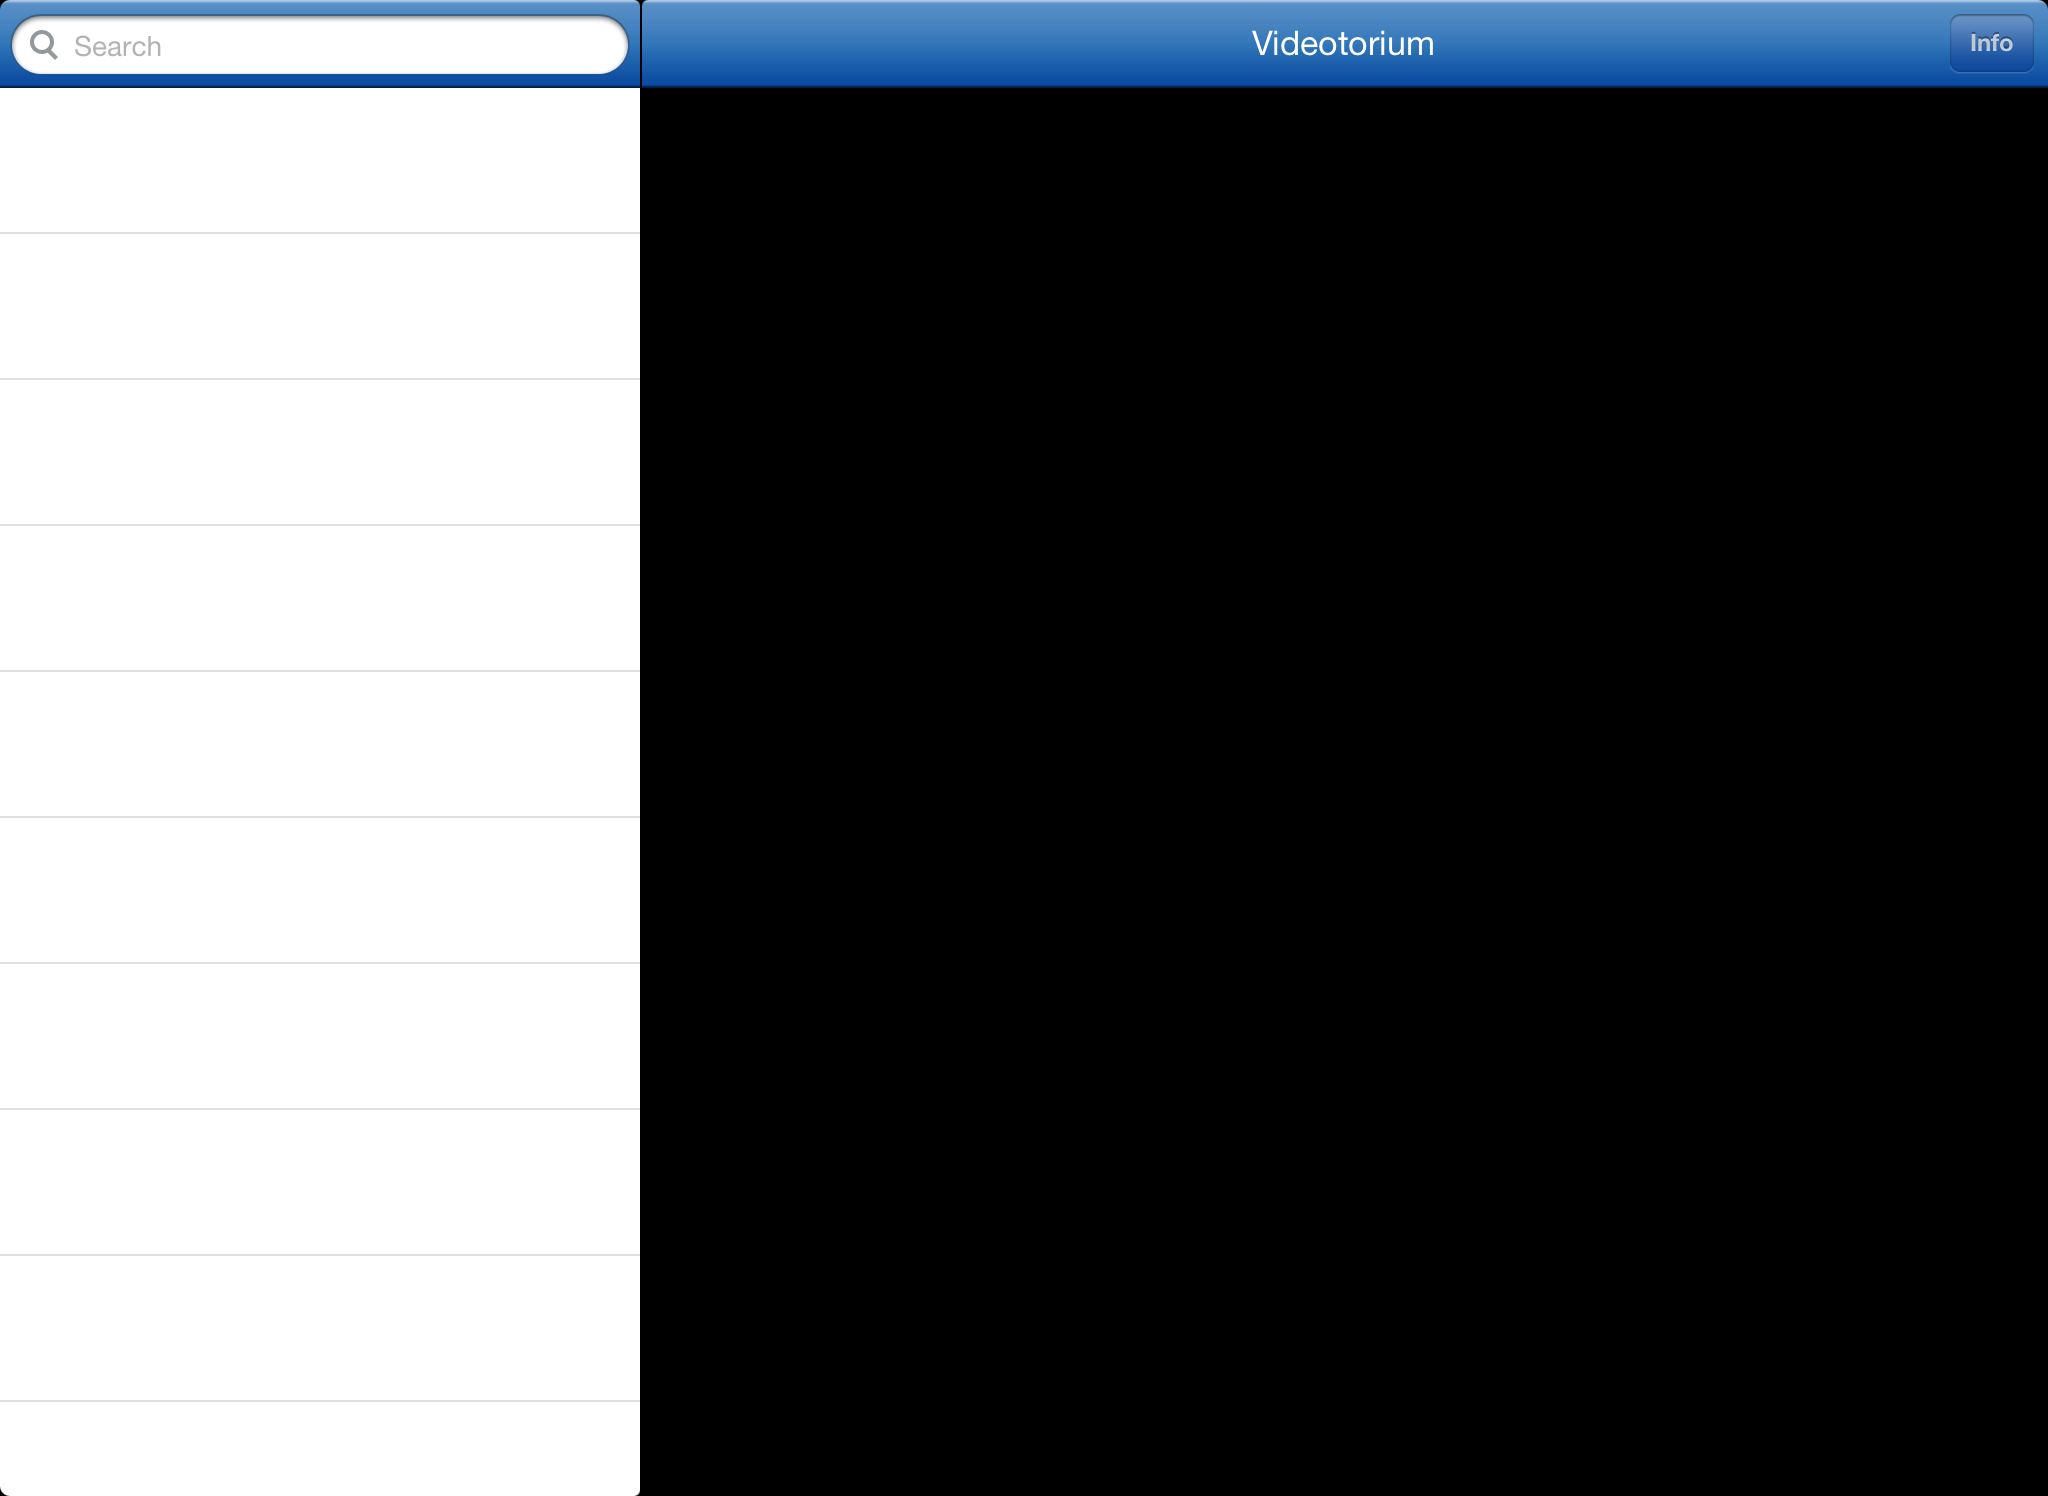
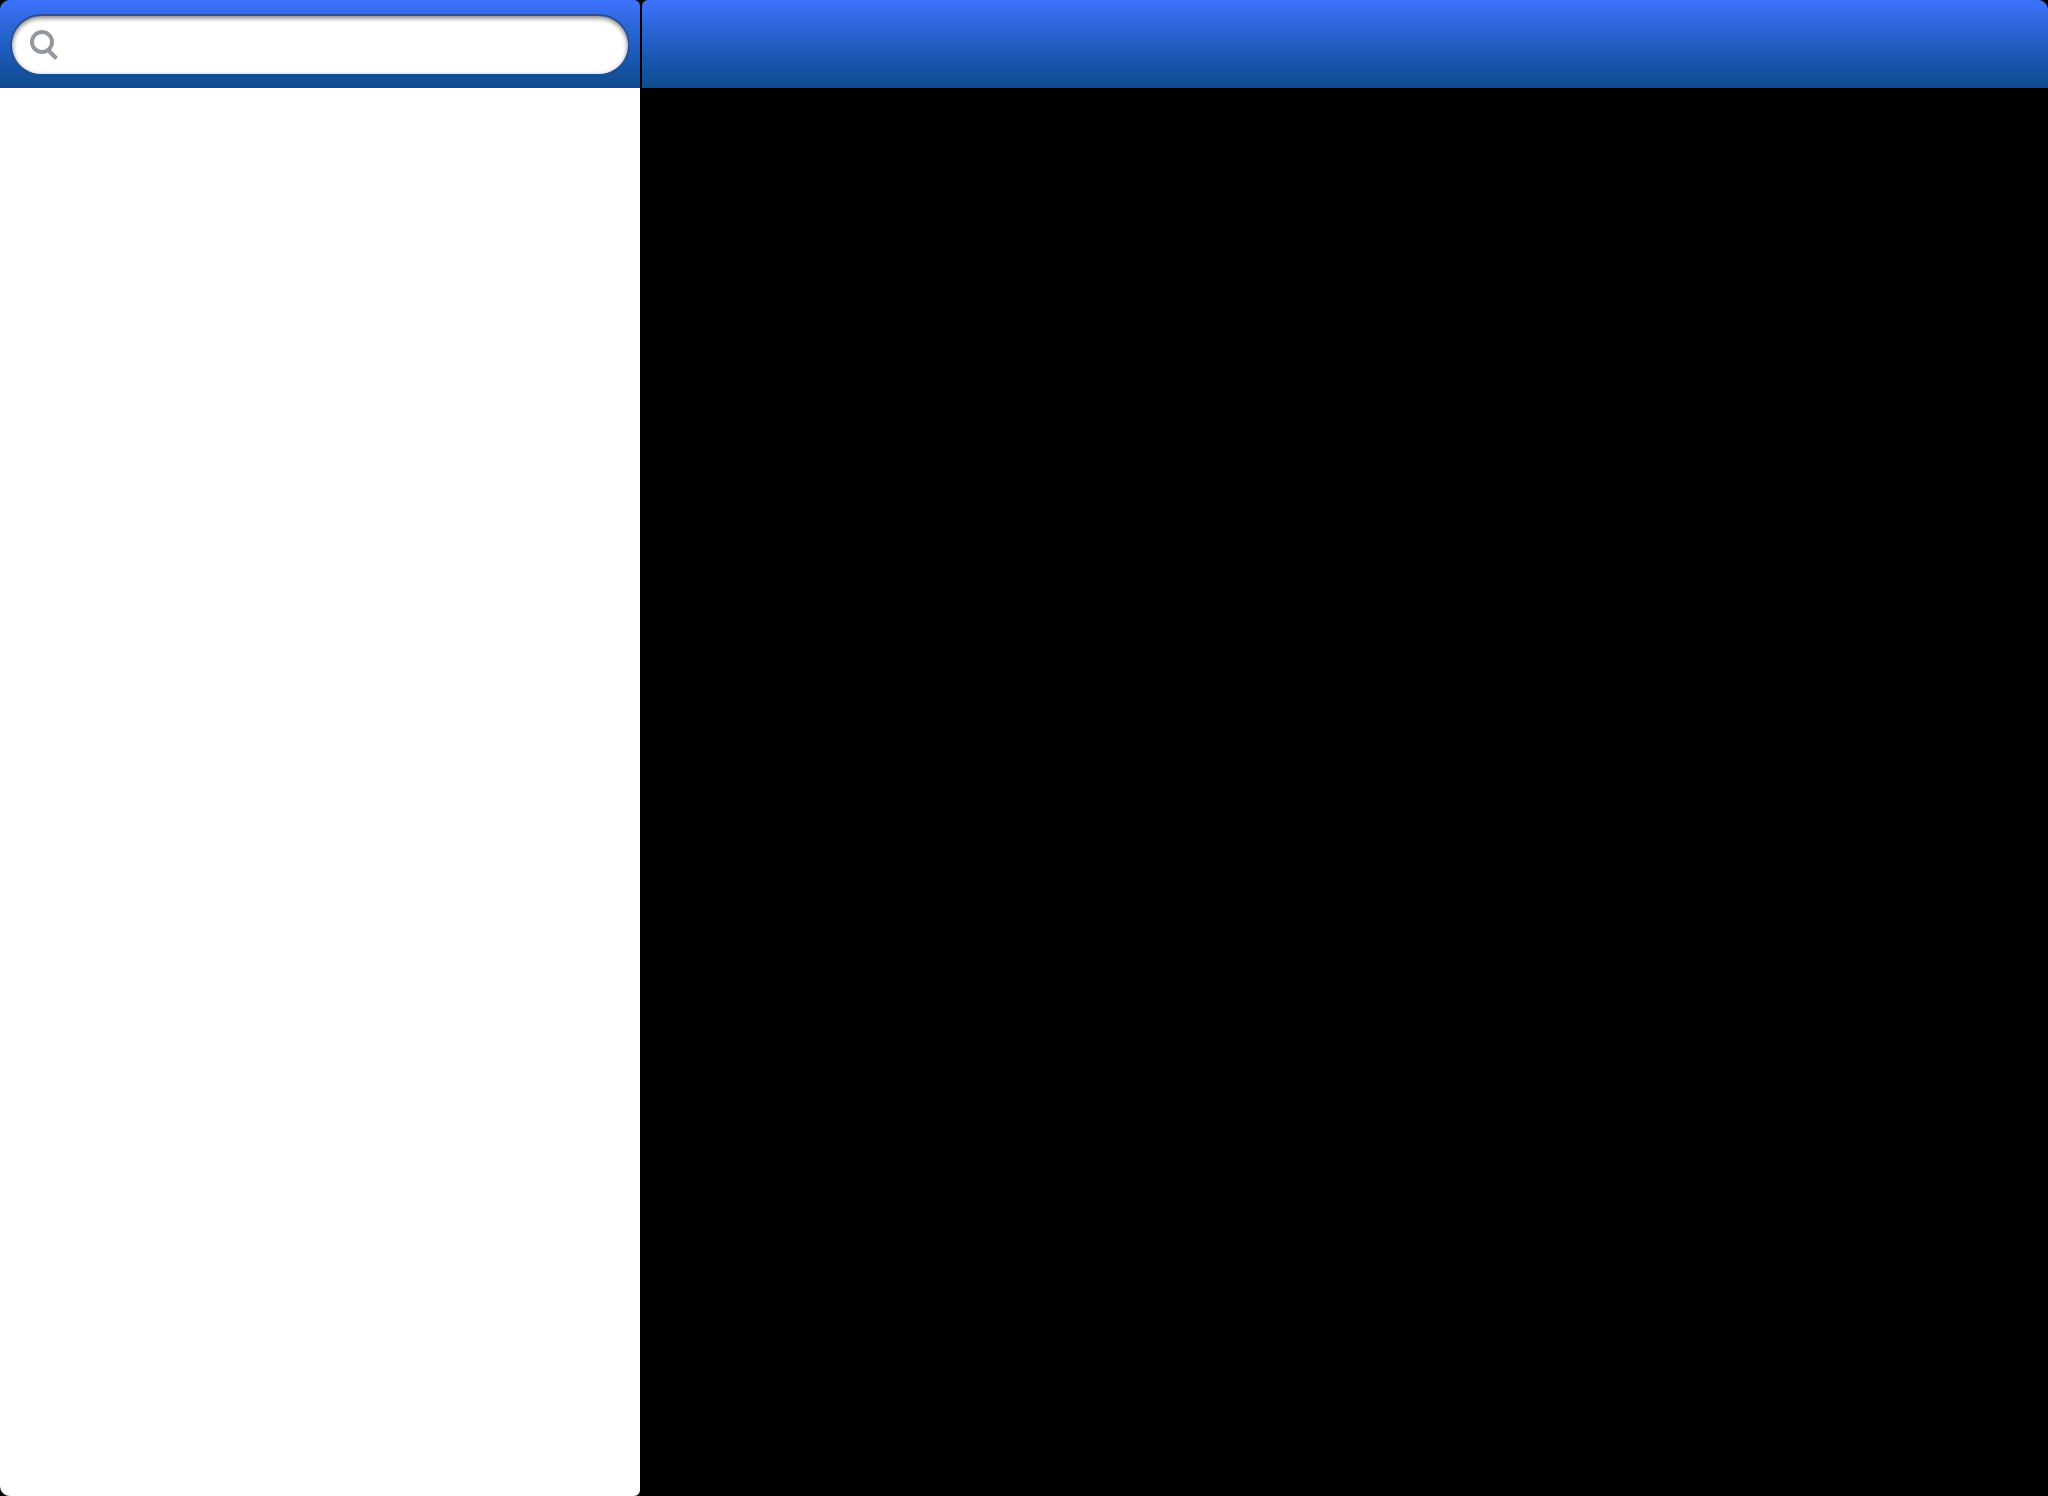
Better screenshotmode, and new launch images.

Changed region(s): [[0.0, 0.0, 1.0, 0.0615]]

diff --git a/videotorium/VideotoriumPlayerViewController.m b/videotorium/VideotoriumPlayerViewController.m
@@ -6,8 +6,6 @@
 //  Copyright (c) 2012 zsombornagy.com. All rights reserved.
 //
 
-//#define SCREENSHOTMODE
-
 #import "VideotoriumPlayerViewController.h"
 #import "VideotoriumClient.h"
 #import "VideotoriumRecordingInfoViewController.h"
@@ -95,13 +93,16 @@
         }
     }
 #endif
+#ifdef SCREENSHOTMODE
+    self.toolbar.items = [NSArray array];
+#endif
 }
 
 - (void)setRecordingID:(NSString *)recordingID
 {
     _recordingID = recordingID;
     
-    self.titleLabel.text = @"Videotorium";
+    self.titleLabel.text = @"";
     self.infoButton.enabled = NO;
     [self.splitViewPopoverController dismissPopoverAnimated:YES];
     if (self.moviePlayerController != nil) {

diff --git a/videotorium/VideotoriumSearchViewController.m b/videotorium/VideotoriumSearchViewController.m
@@ -96,6 +96,9 @@
         }
     }
 #endif
+#ifdef SCREENSHOTMODE
+    self.searchBar.placeholder = @"";
+#endif
     [[NSNotificationCenter defaultCenter] addObserver:self selector:@selector(openURL:) name:@"openURL" object:nil];
 }
 

diff --git a/videotorium/VideotoriumPlayerViewController.h b/videotorium/VideotoriumPlayerViewController.h
@@ -6,6 +6,8 @@
 //  Copyright (c) 2012 zsombornagy.com. All rights reserved.
 //
 
+//#define SCREENSHOTMODE
+
 #import <UIKit/UIKit.h>
 
 @interface VideotoriumPlayerViewController : UIViewController <UISplitViewControllerDelegate>
